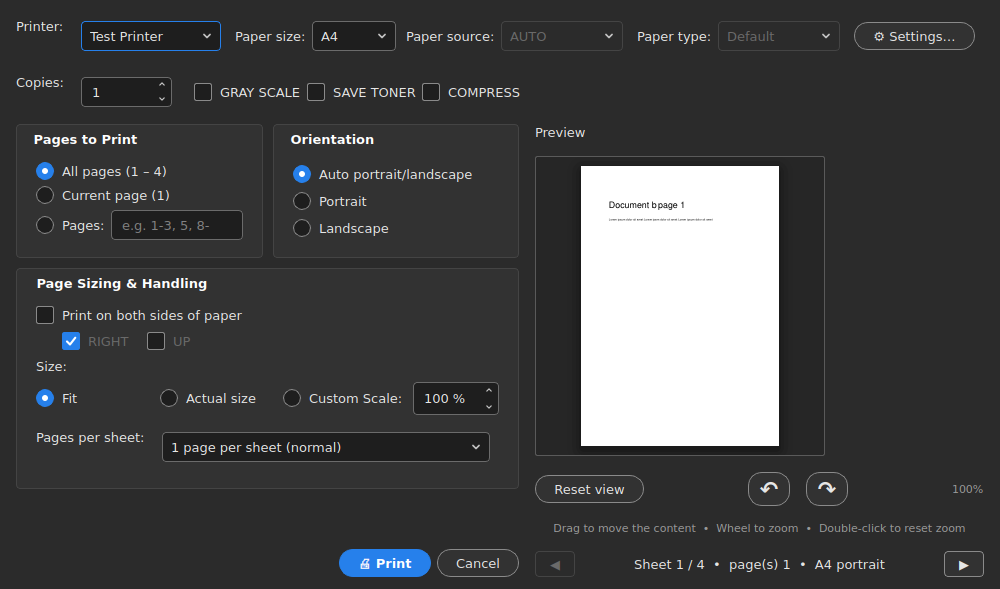
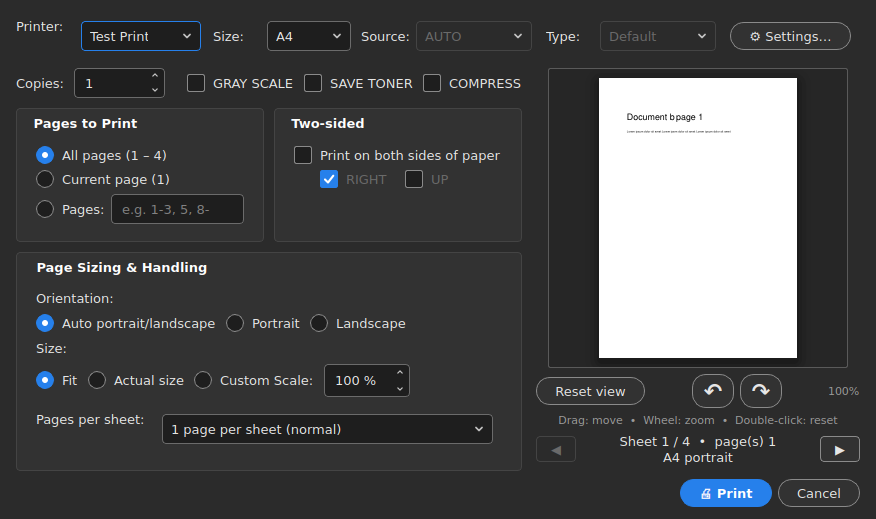
Print dialog: drop 'Paper' from labels, two-sided and orientation swapped, no Preview caption, centred higher preview, narrower window, Print/Cancel bottom-right; refresh screenshots

diff --git a/docs/index.html b/docs/index.html
@@ -145,11 +145,11 @@ footer a{color:var(--muted)}
             <li><strong>Paper:</strong> A0 to A5 or a custom size, orientation, scale to fit or a fixed percentage.</li>
             <li><strong>Pages:</strong> all, current page or a range such as 1-3, 5, 8-; several pages per sheet.</li>
             <li><strong>Two-sided:</strong> flip on the long or the short edge, with the curl drawn in the preview.</li>
-            <li><strong>Driver options:</strong> paper source (auto or the bypass tray) and paper type, right next to the printer and paper size.</li>
+            <li><strong>Driver options:</strong> paper source (auto or the bypass tray) and paper type, right next to the printer and size.</li>
             <li><strong>Modes:</strong> save toner and grayscale. Drag the preview to nudge the content on the sheet and use the mouse wheel to zoom in on it.</li>
           </ul>
         </div>
-        <div class="frame"><img id="shot-print" src="assets/dark-print.png" loading="lazy" width="1000" height="589" alt="The compact landscape print dialog with printer, paper, pages, orientation and paper source settings next to a live page preview"></div>
+        <div class="frame"><img id="shot-print" src="assets/dark-print.png" loading="lazy" width="876" height="519" alt="The compact print dialog with printer, size, source and type in one row, page and two-sided settings, and a live page preview"></div>
       </div>
     </section>
 

diff --git a/pdf_studio.py b/pdf_studio.py
@@ -1556,7 +1556,7 @@ class RadioChoice(QObject):
 
 
 class PrintDialog(DarkTitleBarMixin, QDialog):
-    PW, PH = 290, 300                                      # preview size (compact, landscape dialog)
+    PW, PH = 300, 300                                      # preview size (compact, landscape dialog)
 
     def __init__(self, parent, doc, cur, preset=None, initial_preferences=None):
         super().__init__(parent)
@@ -1614,9 +1614,10 @@ class PrintDialog(DarkTitleBarMixin, QDialog):
         rc.addWidget(self.sp_ph)
         self.lbl_custom.setVisible(False)
         self.w_custom.setVisible(False)
-        self.cb_orient = RadioChoice(self)                     # Adobe: radio buttons, not a dropdown
+        self.cb_orient = RadioChoice(self, horizontal=True)    # Adobe: radio buttons, not a dropdown
         for t, v in (("Auto portrait/landscape", "auto"), ("Portrait", "p"), ("Landscape", "l")):
             self.cb_orient.addItem(t, v)
+        self.cb_orient.layout_.addStretch(1)
 
         self.sp_scale = QSpinBox()
         self.sp_scale.setRange(10, 400)
@@ -1630,6 +1631,7 @@ class PrintDialog(DarkTitleBarMixin, QDialog):
         self.cb_scale.addItem("Fit", "fit")
         self.cb_scale.addItem("Actual size", "actual")
         self.cb_scale.addItem("Custom Scale:", "custom", extra=self.sp_scale)
+        self.cb_scale.layout_.addStretch(1)
 
         self.cb_persheet = QComboBox()
         for t, v in (("1 page per sheet (normal)", 1), ("2 pages per sheet", 2),
@@ -1697,43 +1699,41 @@ class PrintDialog(DarkTitleBarMixin, QDialog):
         for cb in (self.cb_source, self.cb_media):
             cb.setSizeAdjustPolicy(QComboBox.SizeAdjustPolicy.AdjustToMinimumContentsLengthWithIcon)
             cb.setMinimumContentsLength(4)
-            cb.setFixedWidth(122)
+            cb.setFixedWidth(116)
 
         row_printer = QHBoxLayout()
-        self.cb_printer.setMaximumWidth(140)                    # compact printer drop-down
+        self.cb_printer.setMaximumWidth(120)                    # compact printer drop-down
         self.cb_printer.setSizeAdjustPolicy(QComboBox.SizeAdjustPolicy.AdjustToMinimumContentsLengthWithIcon)
         self.cb_printer.setMinimumContentsLength(8)
         row_printer.addWidget(self.cb_printer, 1)
-        row_printer.addSpacing(8)
-        row_printer.addWidget(QLabel("Paper size:"))            # paper size sits between printer and Settings
+        row_printer.addSpacing(6)
+        row_printer.addWidget(QLabel("Size:"))                  # size / source / type sit between printer and Settings
         self.cb_paper.setSizeAdjustPolicy(QComboBox.SizeAdjustPolicy.AdjustToMinimumContentsLengthWithIcon)
         self.cb_paper.setMinimumContentsLength(7)
         self.cb_paper.setFixedWidth(84)
         row_printer.addWidget(self.cb_paper)
         row_printer.addSpacing(4)
-        row_printer.addWidget(QLabel("Paper source:"))
+        row_printer.addWidget(QLabel("Source:"))
         row_printer.addWidget(self.cb_source)
         row_printer.addSpacing(8)
-        row_printer.addWidget(QLabel("Paper type:"))
+        row_printer.addWidget(QLabel("Type:"))
         row_printer.addWidget(self.cb_media)
         row_printer.addSpacing(8)
         row_printer.addWidget(self.btn_printer_props)
         w_printer = QWidget()
         w_printer.setLayout(row_printer)
 
-        # Top strip, full width like Adobe: Printer + Properties, then Copies with the colour/toner ticks
+        # Top strip, full width: Printer, size, source, type and Settings in one line
         f1 = QFormLayout()
         f1.addRow("Printer:", w_printer)
         copies_row = QHBoxLayout()
+        copies_row.addWidget(QLabel("Copies:"))
         copies_row.addWidget(self.sp_copies)
-        copies_row.addSpacing(16)
+        copies_row.addSpacing(12)
         copies_row.addWidget(self.ck_grayscale)
         copies_row.addWidget(self.ck_save_toner)
         copies_row.addWidget(self.ck_compress)
         copies_row.addStretch(1)
-        w_copies = QWidget()
-        w_copies.setLayout(copies_row)
-        f1.addRow("Copies:", w_copies)
 
         # Page Sizing & Handling: paper, size (scale) radios, pages per sheet, both-sides ticks
         f2 = QFormLayout()
@@ -1746,15 +1746,17 @@ class PrintDialog(DarkTitleBarMixin, QDialog):
         v2 = QVBoxLayout()
         v2.setSpacing(8)
         v2.addLayout(f2)
-        v2.addWidget(self.ck_duplex)
-        v2.addWidget(self.w_flip)
+        v2.addWidget(QLabel("Orientation:"))
+        v2.addWidget(self.cb_orient.box)
         v2.addWidget(QLabel("Size:"))
         v2.addWidget(self.cb_scale.box)
         f_per = QFormLayout()
         f_per.addRow("Pages per sheet:", w_per)
         v2.addLayout(f_per)
-        v_orient = QVBoxLayout()
-        v_orient.addWidget(self.cb_orient.box)
+        v_duplex = QVBoxLayout()                               # two-sided printing, in the old Orientation spot
+        v_duplex.addWidget(self.ck_duplex)
+        v_duplex.addWidget(self.w_flip)
+        v_duplex.addStretch(1)
         f3 = QVBoxLayout()
         f3.addWidget(self.rb_all)
         f3.addWidget(self.rb_cur)
@@ -1763,12 +1765,13 @@ class PrintDialog(DarkTitleBarMixin, QDialog):
         row.addWidget(self.ed_range)
         f3.addLayout(row)
 
-        row_pg = QHBoxLayout()                                   # Pages to Print | Orientation, side by side
+        row_pg = QHBoxLayout()                                   # Pages to Print | Two-sided, side by side
         row_pg.setSpacing(10)
         row_pg.addWidget(box("Pages to Print", f3), 1)
-        row_pg.addWidget(box("Orientation", v_orient), 1)
+        row_pg.addWidget(box("Two-sided", v_duplex), 1)
         left = QVBoxLayout()
         left.setSpacing(10)
+        left.addLayout(copies_row)
         left.addLayout(row_pg)
         left.addWidget(box("Page Sizing && Handling", v2))
         left.addStretch(1)
@@ -1801,20 +1804,26 @@ class PrintDialog(DarkTitleBarMixin, QDialog):
         nav.addWidget(self.bt_prev)
         nav.addWidget(self.lbl_info, 1)
         nav.addWidget(self.bt_next)
-        lbl_hint = QLabel("Drag to move the content  •  Wheel to zoom  •  Double-click to reset zoom")
+        lbl_hint = QLabel("Drag: move  •  Wheel: zoom  •  Double-click: reset")
         lbl_hint.setAlignment(Qt.AlignmentFlag.AlignCenter)
         lbl_hint.setStyleSheet(f"color:{T['MUTED']};font-size:11px")
         self.lbl_zoom = QLabel("100%")
         self.lbl_zoom.setStyleSheet(f"color:{T['MUTED']};font-size:11px")
         rotate_row.insertWidget(0, self.bt_reset_pos)         # reset zoom + position
         rotate_row.addWidget(self.lbl_zoom)
+        lbl_hint.setWordWrap(True)
+        self.lbl_info.setWordWrap(True)
         right = QVBoxLayout()
-        right.addWidget(QLabel("Preview"))
-        right.addWidget(self.lbl_pv)
+        right.setContentsMargins(0, 0, 0, 0)
+        right.setSpacing(6)
+        right.addWidget(self.lbl_pv, 0, Qt.AlignmentFlag.AlignHCenter)
         right.addLayout(rotate_row)
         right.addWidget(lbl_hint)
         right.addLayout(nav)
         right.addStretch(1)
+        w_right = QWidget()                                      # as wide as the preview, so it sits centred
+        w_right.setFixedWidth(self.PW + 24)
+        w_right.setLayout(right)
 
         self.btn_print = QPushButton("🖨 Print")
         self.btn_print.setDefault(True)
@@ -1825,16 +1834,19 @@ class PrintDialog(DarkTitleBarMixin, QDialog):
         bb.accepted.connect(self.accept)
         bb.rejected.connect(self.reject)
 
-        left.addWidget(bb)                                       # Print / Cancel under the settings
         top = QHBoxLayout()
-        top.setSpacing(16)
-        top.addLayout(left, 0)
-        top.addLayout(right, 0)
+        top.setSpacing(14)
+        top.addLayout(left, 1)
+        top.addWidget(w_right, 0, Qt.AlignmentFlag.AlignTop)
+        row_btn = QHBoxLayout()                                  # Print / Cancel in the bottom-right corner
+        row_btn.addStretch(1)
+        row_btn.addWidget(bb)
         main = QVBoxLayout(self)
         main.setContentsMargins(16, 12, 16, 12)
         main.setSpacing(8)
         main.addLayout(f1)
-        main.addLayout(top)
+        main.addLayout(top, 1)
+        main.addLayout(row_btn)
         # tighter group boxes than the main window uses, so the whole dialog stays small
         self.setStyleSheet("QGroupBox{padding:28px 10px 8px 10px;}QGroupBox::title{top:7px;}")
 
@@ -2473,7 +2485,7 @@ class PrintDialog(DarkTitleBarMixin, QDialog):
         self.lbl_pv.setPixmap(pm)
 
         rng = f"{sheet[0] + 1}" + (f"–{sheet[-1] + 1}" if len(sheet) > 1 else "")
-        info = f"Sheet {self.pv + 1} / {len(grp)}  •  page(s) {rng}  •  {paper_label} {'landscape' if ls else 'portrait'}"
+        info = f"Sheet {self.pv + 1} / {len(grp)}  •  page(s) {rng}\n{paper_label} {'landscape' if ls else 'portrait'}"
         if duplex != "none":
             info += f"\nsheet {self.pv // 2 + 1}, {'front' if self.pv % 2 == 0 else 'back'}"
         self.lbl_info.setText(info)
